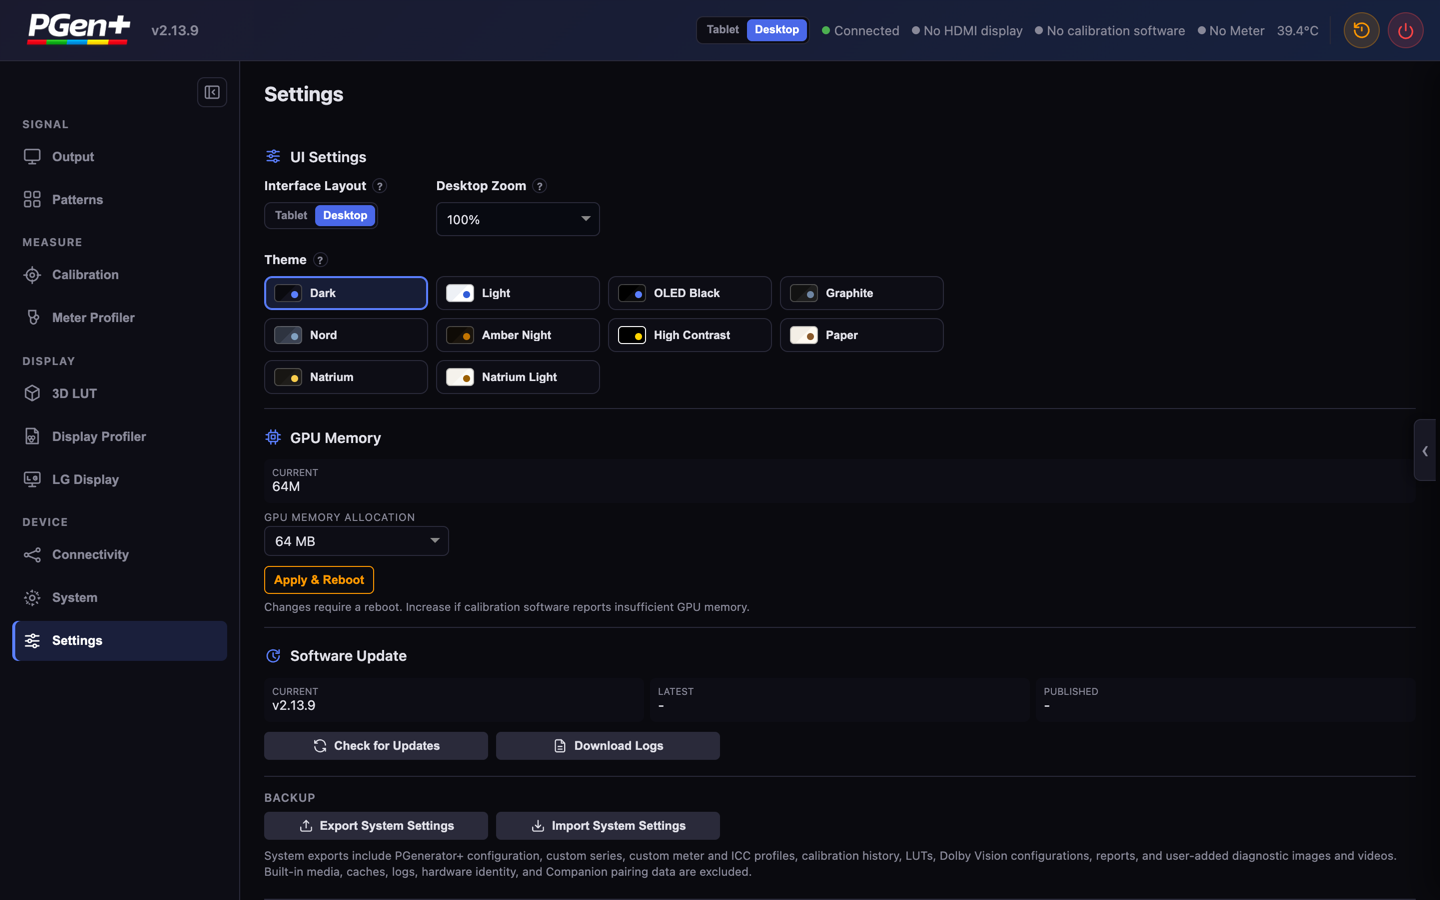
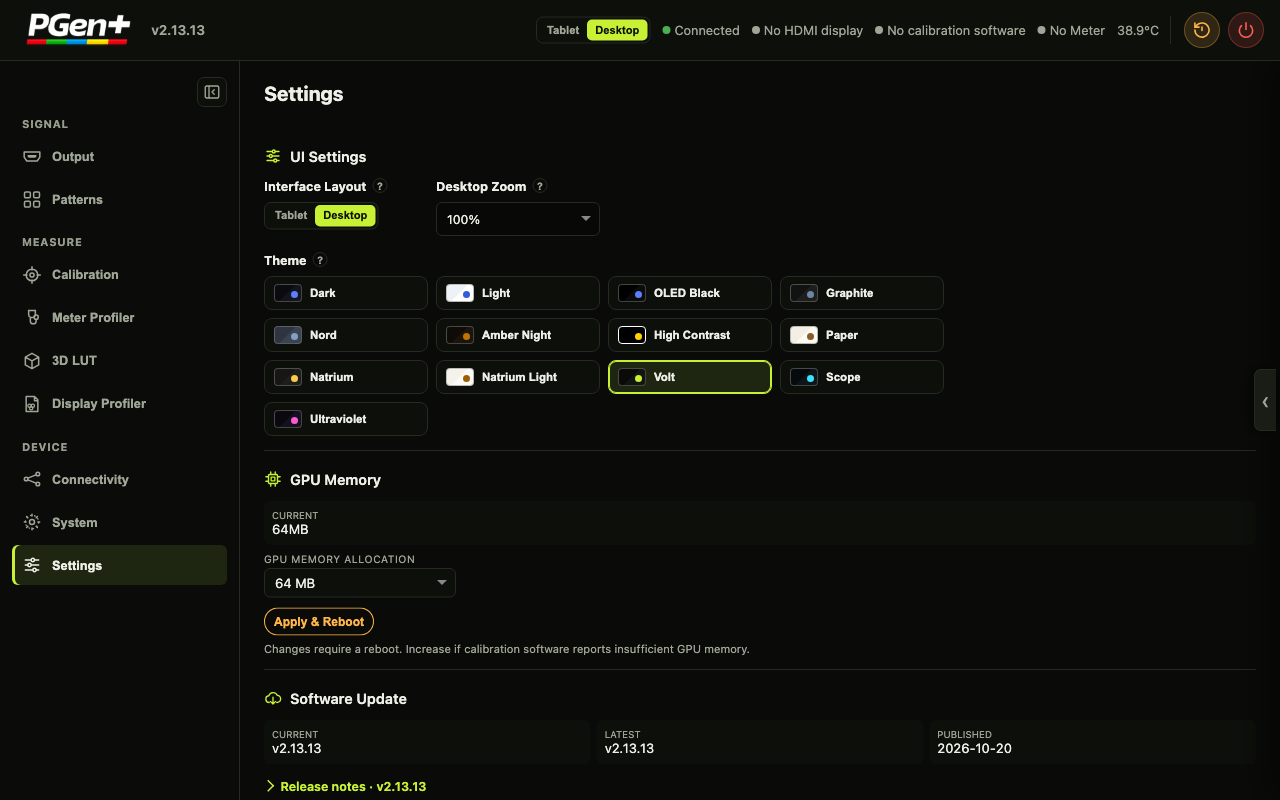
README: screenshots in the Volt theme, 13 themes, Self-Test in Output
New screenshots of Patterns, Playlists, phone, Settings and the Signal
Self-Test in the lime Volt theme. The workspace table lists the Self-Test
under Output and LG TV control under Connectivity; the theme count is 13.

diff --git a/README.md b/README.md
@@ -21,7 +21,7 @@
 </p>
 
 <p align="center">
-  <img src="screenshots/webui-patterns.png" alt="PGenerator+ Web UI: Patterns workspace with Calman G1 plates, test images and the playlist deck" width="900"/>
+  <img src="screenshots/webui-patterns.png" alt="PGenerator+ Web UI in the Volt theme: Patterns workspace with Calman G1 plates, test images and playlists" width="900"/>
 </p>
 
 ---
@@ -71,7 +71,7 @@ Without a display, the renderer waits instead of failing. The UI says so in a ba
 <td valign="top">
 
 ### 🖥 A reworked Web UI
-**10 colour themes** (dark, light, OLED, Natrium …) and workspace navigation. The UI shows the measured HDMI link depth and clock. It is served compressed with an ETag, pauses polling in hidden tabs and uses its own dialogs instead of browser pop-ups. Toasts appear only for warnings and errors.
+**13 colour themes** (dark, light, OLED, Natrium, the lime Volt …) and workspace navigation. The UI shows the measured HDMI link depth and clock. It is served compressed with an ETag, pauses polling in hidden tabs and uses its own dialogs instead of browser pop-ups. Toasts appear only for warnings and errors.
 
 </td>
 </tr>
@@ -118,7 +118,7 @@ Press **OK or Menu on the TV remote** and a menu of every pattern appears on the
 | Calman YCbCr 4:2:0 request | no defined answer | clean NAK, current format kept, WebUI notice |
 | Calman G1 specialty patterns | – | rendered on the Pi, also in the WebUI |
 | No display connected | renderer started anyway | waits for a display, banner in the UI, saved mode kept |
-| WebUI themes | dark / light / system | **10 themes** incl. Natrium dark & light |
+| WebUI themes | dark / light / system | **13 themes** incl. Natrium dark & light and Volt, Scope, Ultraviolet |
 | HDMI link readout | – | measured link depth and clock |
 | OTA | latest release only | release notes, progress, **reinstall / rollback**, ~20 % smaller packages |
 | Self-test of the HDMI output | – | **built in**: scanout readback, link depth and AVI per mode |
@@ -139,10 +139,10 @@ Press **OK or Menu on the TV remote** and a menu of every pattern appears on the
 <td align="center"><sub>Playlists: the deck follows the TV remote; Start, duplicate or edit from the library</sub></td>
 </tr>
 <tr>
-<td valign="top"><img src="screenshots/webui-settings.png" alt="Settings workspace with theme picker, GPU memory and software update"/><br/><p align="center"><sub>Settings: themes, GPU memory, OTA update and backup in one place</sub></p></td>
+<td valign="top"><img src="screenshots/webui-settings.png" alt="Settings workspace with the theme picker (Volt selected), GPU memory and software update"/><br/><p align="center"><sub>Settings: 13 themes, GPU memory, OTA update and backup in one place</sub></p></td>
 </tr>
 <tr>
-<td colspan="2" valign="top"><img src="screenshots/webui-selftest.png" alt="Signal self-test in System: bit-exact in 10 of 10 modes, with link details and the drawn swatches per mode"/><br/><p align="center"><sub>Signal self-test: every mode read back from the scanout on a real Pi 4, bit-exact in 10 of 10</sub></p></td>
+<td colspan="2" valign="top"><img src="screenshots/webui-selftest.png" alt="Signal self-test in Output: bit-exact in 10 of 10 modes, with link details and the drawn swatches per mode"/><br/><p align="center"><sub>Signal self-test, right below Display Settings: every mode read back from the scanout on a real Pi 4, bit-exact in 10 of 10</sub></p></td>
 </tr>
 </table>
 <p align="center"><sub>Top right: the same playlists on a phone, with a bottom tab bar</sub></p>
@@ -264,16 +264,15 @@ Served on **port 80** at `http://pgenerator.local`. It has a **Desktop** layout 
 
 | Workspace | What's in it |
 |---|---|
-| **Output** | Signal mode (SDR / HDR10 / HLG / Dolby Vision), resolution from the EDID, bit depth, colour format, colorimetry, range, and HDR10 and DV metadata. Shows a banner while no display is connected. |
+| **Output** | Signal mode (SDR / HDR10 / HLG / Dolby Vision), resolution from the EDID, bit depth, colour format, colorimetry, range, and HDR10 and DV metadata. Shows a banner while no display is connected. Below it the **Signal Self-Test**: draws known codes in every signal mode and reads the scanout back, next to link depth, range CSC and AVI infoframe |
 | **Patterns** | Calman G1 plates (favourites Basic Alignment, Warm-Up, Granger Rainbow, plus all others), the test images White Clipping, Black Clipping and Overscan, your own uploaded images and videos, and **playlists** you step through with the TV remote; "Show menu on TV" opens the on-screen pattern menu |
 | **Calibration** | Meter detection, single and continuous reads, series runs (Greyscale 21/11, Colors 30, Saturation 24), charts, and session export |
 | **Meter Profiler** | Meter correction (CCSS) editor and preview |
 | **3D LUT · Display Profiler** | LUT handling, MHC2 / KDE HDR profile building |
-| **LG Display** | LG pairing, AutoCal (greyscale, 3D LUT, HDR tone map, Shadow Fix) |
-| **Connectivity** | Wi-Fi client, access point and Bluetooth in one Network card, plus the Resolve client |
-| **System** | Device info (CPU, memory, temperature, interfaces, uptime) and the **Signal Self-Test** |
+| **Connectivity** | Wi-Fi client, access point and Bluetooth in one Network card, LG TV control (pairing, AutoCal: greyscale, 3D LUT, HDR tone map, Shadow Fix) and the Resolve client |
+| **System** | Device info (CPU, memory, temperature, interfaces, uptime) |
 | **Live Information** (right-hand drawer) | Active signal, the infoframe decoder (AVI and DRM), the measured HDMI link depth and clock, and HDMI-CEC status |
-| **Settings** | Layout, zoom, **10 themes**, GPU memory, software update (with notes, progress, rollback), Download Logs, and settings backup and restore |
+| **Settings** | Layout, zoom, **13 themes**, GPU memory, software update (with notes, progress, rollback), Download Logs, and settings backup and restore |
 
 The header shows the connection, HDMI display, calibration software, meter and temperature at a glance. Restart and power-off are one tap away.
 

diff --git a/CLAUDE.md b/CLAUDE.md
@@ -30,7 +30,7 @@ Run what applies and say what was and was not checked:
 - WebUI changes: look at the rendered page at phone (~390 px), tablet and
   desktop widths; the impeccable detector on changed UI files
 - Signal, renderer or pattern changes: on the Pi at the HDMI output
-  (`/verify` skill, the Signal Self-Test in System, or `pgen_scanout`).
+  (`/verify` skill, the Signal Self-Test in Output, or `pgen_scanout`).
   Deploy scripts are not verification.
 
 ## Rules that bite
